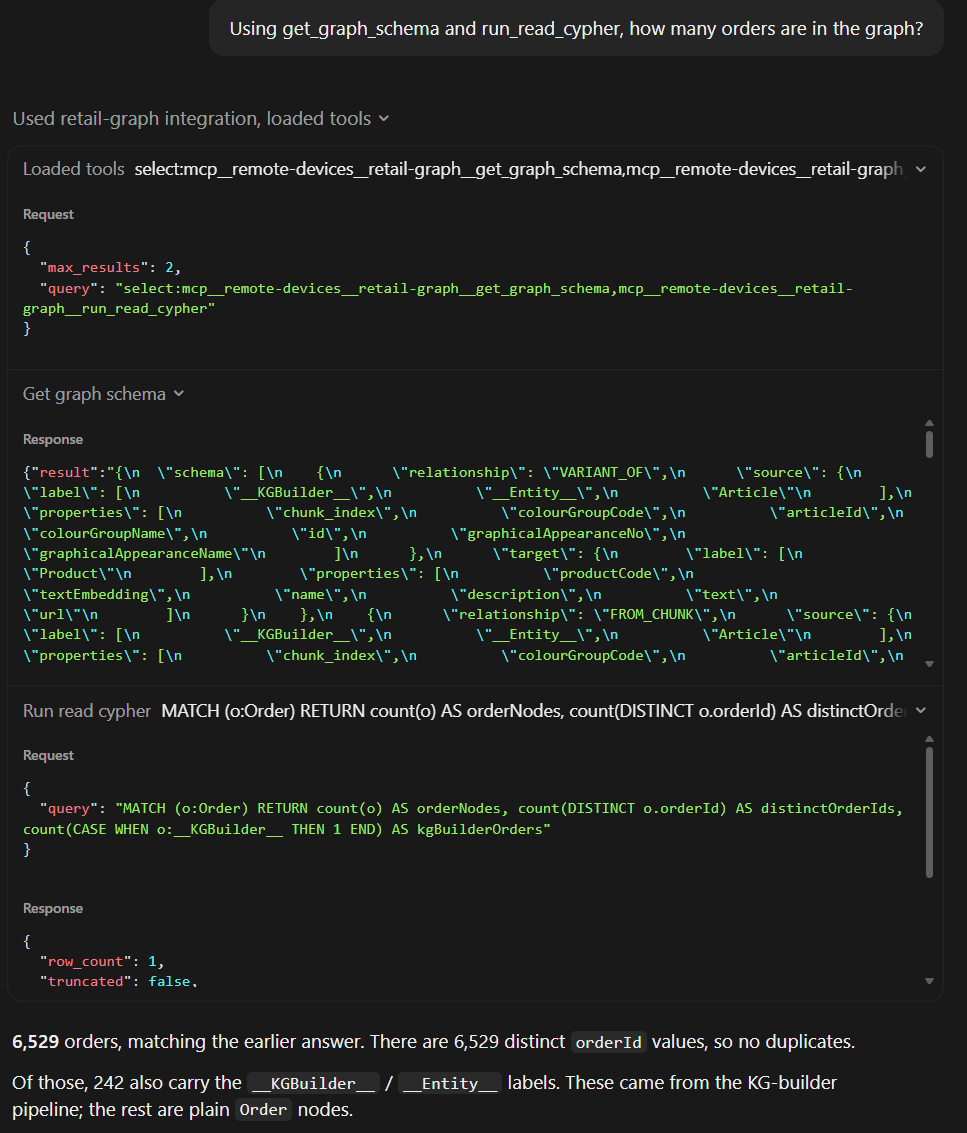
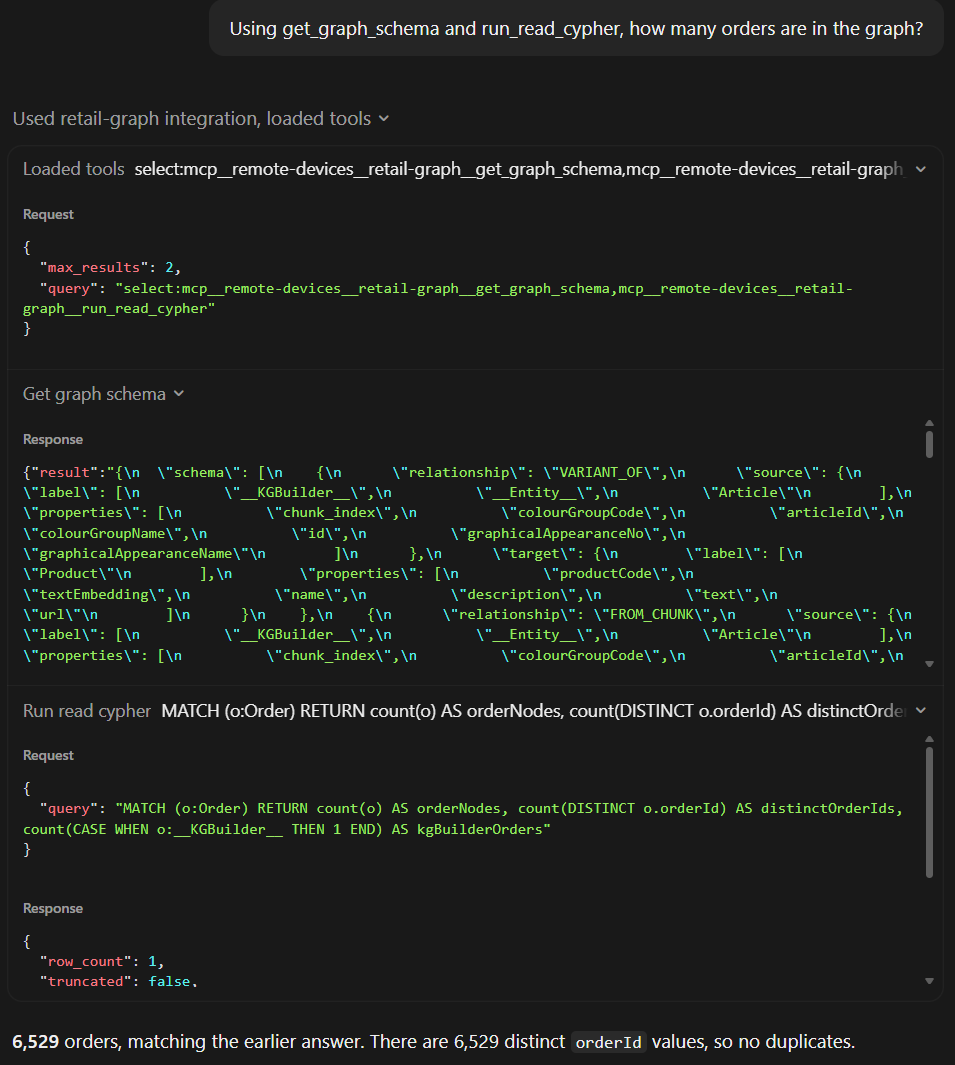
6th commit

diff --git a/README.md b/README.md
@@ -36,21 +36,56 @@ Builds a text description for each product (name, type, category, description) i
 ### 4. A completed graph after all ingestions:
 ![alt text](image.png)
 
-## MCP tools:
+## MCP tools
 
-| Tool | What it does | Input |
-|---|---|---|
-| `search_products` | Finds the products whose description is closest in meaning to your text, e.g. "light summer dress". | free text |
-![search_product__tool](customer-graph/screenshot/search_product__tool.png)
-| `get_supplier_order_product_info` | Returns each supplier's total orders and refunds, plus a per-product breakdown. Counts are per order line / credit-note line, so they can be higher than the number of distinct orders. | supplier IDs |
-![get_supplier_order_product_info](customer-graph/screenshot/get_supplier_order_product_info__tool.png)
-| `answer_general_question` (Option A) | Answers any other question about the graph. The MCP server asks Claude to write the Cypher, runs it, and returns the Cypher and the rows. | a question in plain English |
-![answer_general_question](customer-graph/screenshot/answer_general_question__tool.png)
-| `get_graph_schema` (Option B) | Returns the graph schema plus a few example questions with their Cypher, so the chat model can write its own queries. | none |
-| `run_read_cypher` (Option B) | Runs a read-only Cypher query that the chat model wrote (up to 50 rows, 15-second timeout). | a Cypher query |
-![get_graph_schema__run_read_cypher__tool](customer-graph/screenshot/get_graph_schema__run_read_cypher__tool.png)
-| `recommend_products` | "People who bought these also bought": returns up to 20 products that other buyers of the same items also ordered, ranked by how often. Segment IDs appear in the tool description, but this project doesn't create them. | product codes or article IDs |
-![recommend_products__tool](customer-graph/screenshot/recommend_products__tool.png)
+### `search_products`
+
+Finds the products whose description is closest in meaning to your text, e.g. "light summer dress".
+
+**Input:** free text
+
+<p align="center">
+  <img src="customer-graph/screenshot/search_product__tool.png" alt="search_products tool call in Claude Desktop" width="600">
+</p>
+
+### `get_supplier_order_product_info`
+
+Returns each supplier's total orders and refunds, plus a per-product breakdown. Counts are per order line / credit-note line, so they can be higher than the number of distinct orders.
+
+**Input:** supplier IDs
+
+<p align="center">
+  <img src="customer-graph/screenshot/get_supplier_order_product_info__tool.png" alt="get_supplier_order_product_info tool call in Claude Desktop" width="600">
+</p>
+
+### `answer_general_question` (Option A)
+
+Answers any other question about the graph. The MCP server asks Claude to write the Cypher, runs it, and returns the Cypher and the rows.
+
+**Input:** a question in plain English
+
+<p align="center">
+  <img src="customer-graph/screenshot/answer_general_question__tool.png" alt="answer_general_question tool call in Claude Desktop" width="600">
+</p>
+
+### `get_graph_schema` and `run_read_cypher` (Option B)
+
+- **`get_graph_schema`** returns the graph schema plus a few example questions with their Cypher, so the chat model can write its own queries. **Input:** none.
+- **`run_read_cypher`** runs a read-only Cypher query that the chat model wrote (up to 50 rows, 15-second timeout). **Input:** a Cypher query.
+
+<p align="center">
+  <img src="customer-graph/screenshot/get_graph_schema__run_read_cypher__tool.png" alt="get_graph_schema and run_read_cypher tool calls in Claude Desktop" width="600">
+</p>
+
+### `recommend_products`
+
+"People who bought these also bought": returns up to 20 products that other buyers of the same items also ordered, ranked by how often. Segment IDs appear in the tool description, but this project doesn't create them.
+
+**Input:** product codes or article IDs
+
+<p align="center">
+  <img src="customer-graph/screenshot/recommend_products__tool.png" alt="recommend_products tool call in Claude Desktop" width="600">
+</p>
 
 
 # Agent notes: who generates the Cypher?
